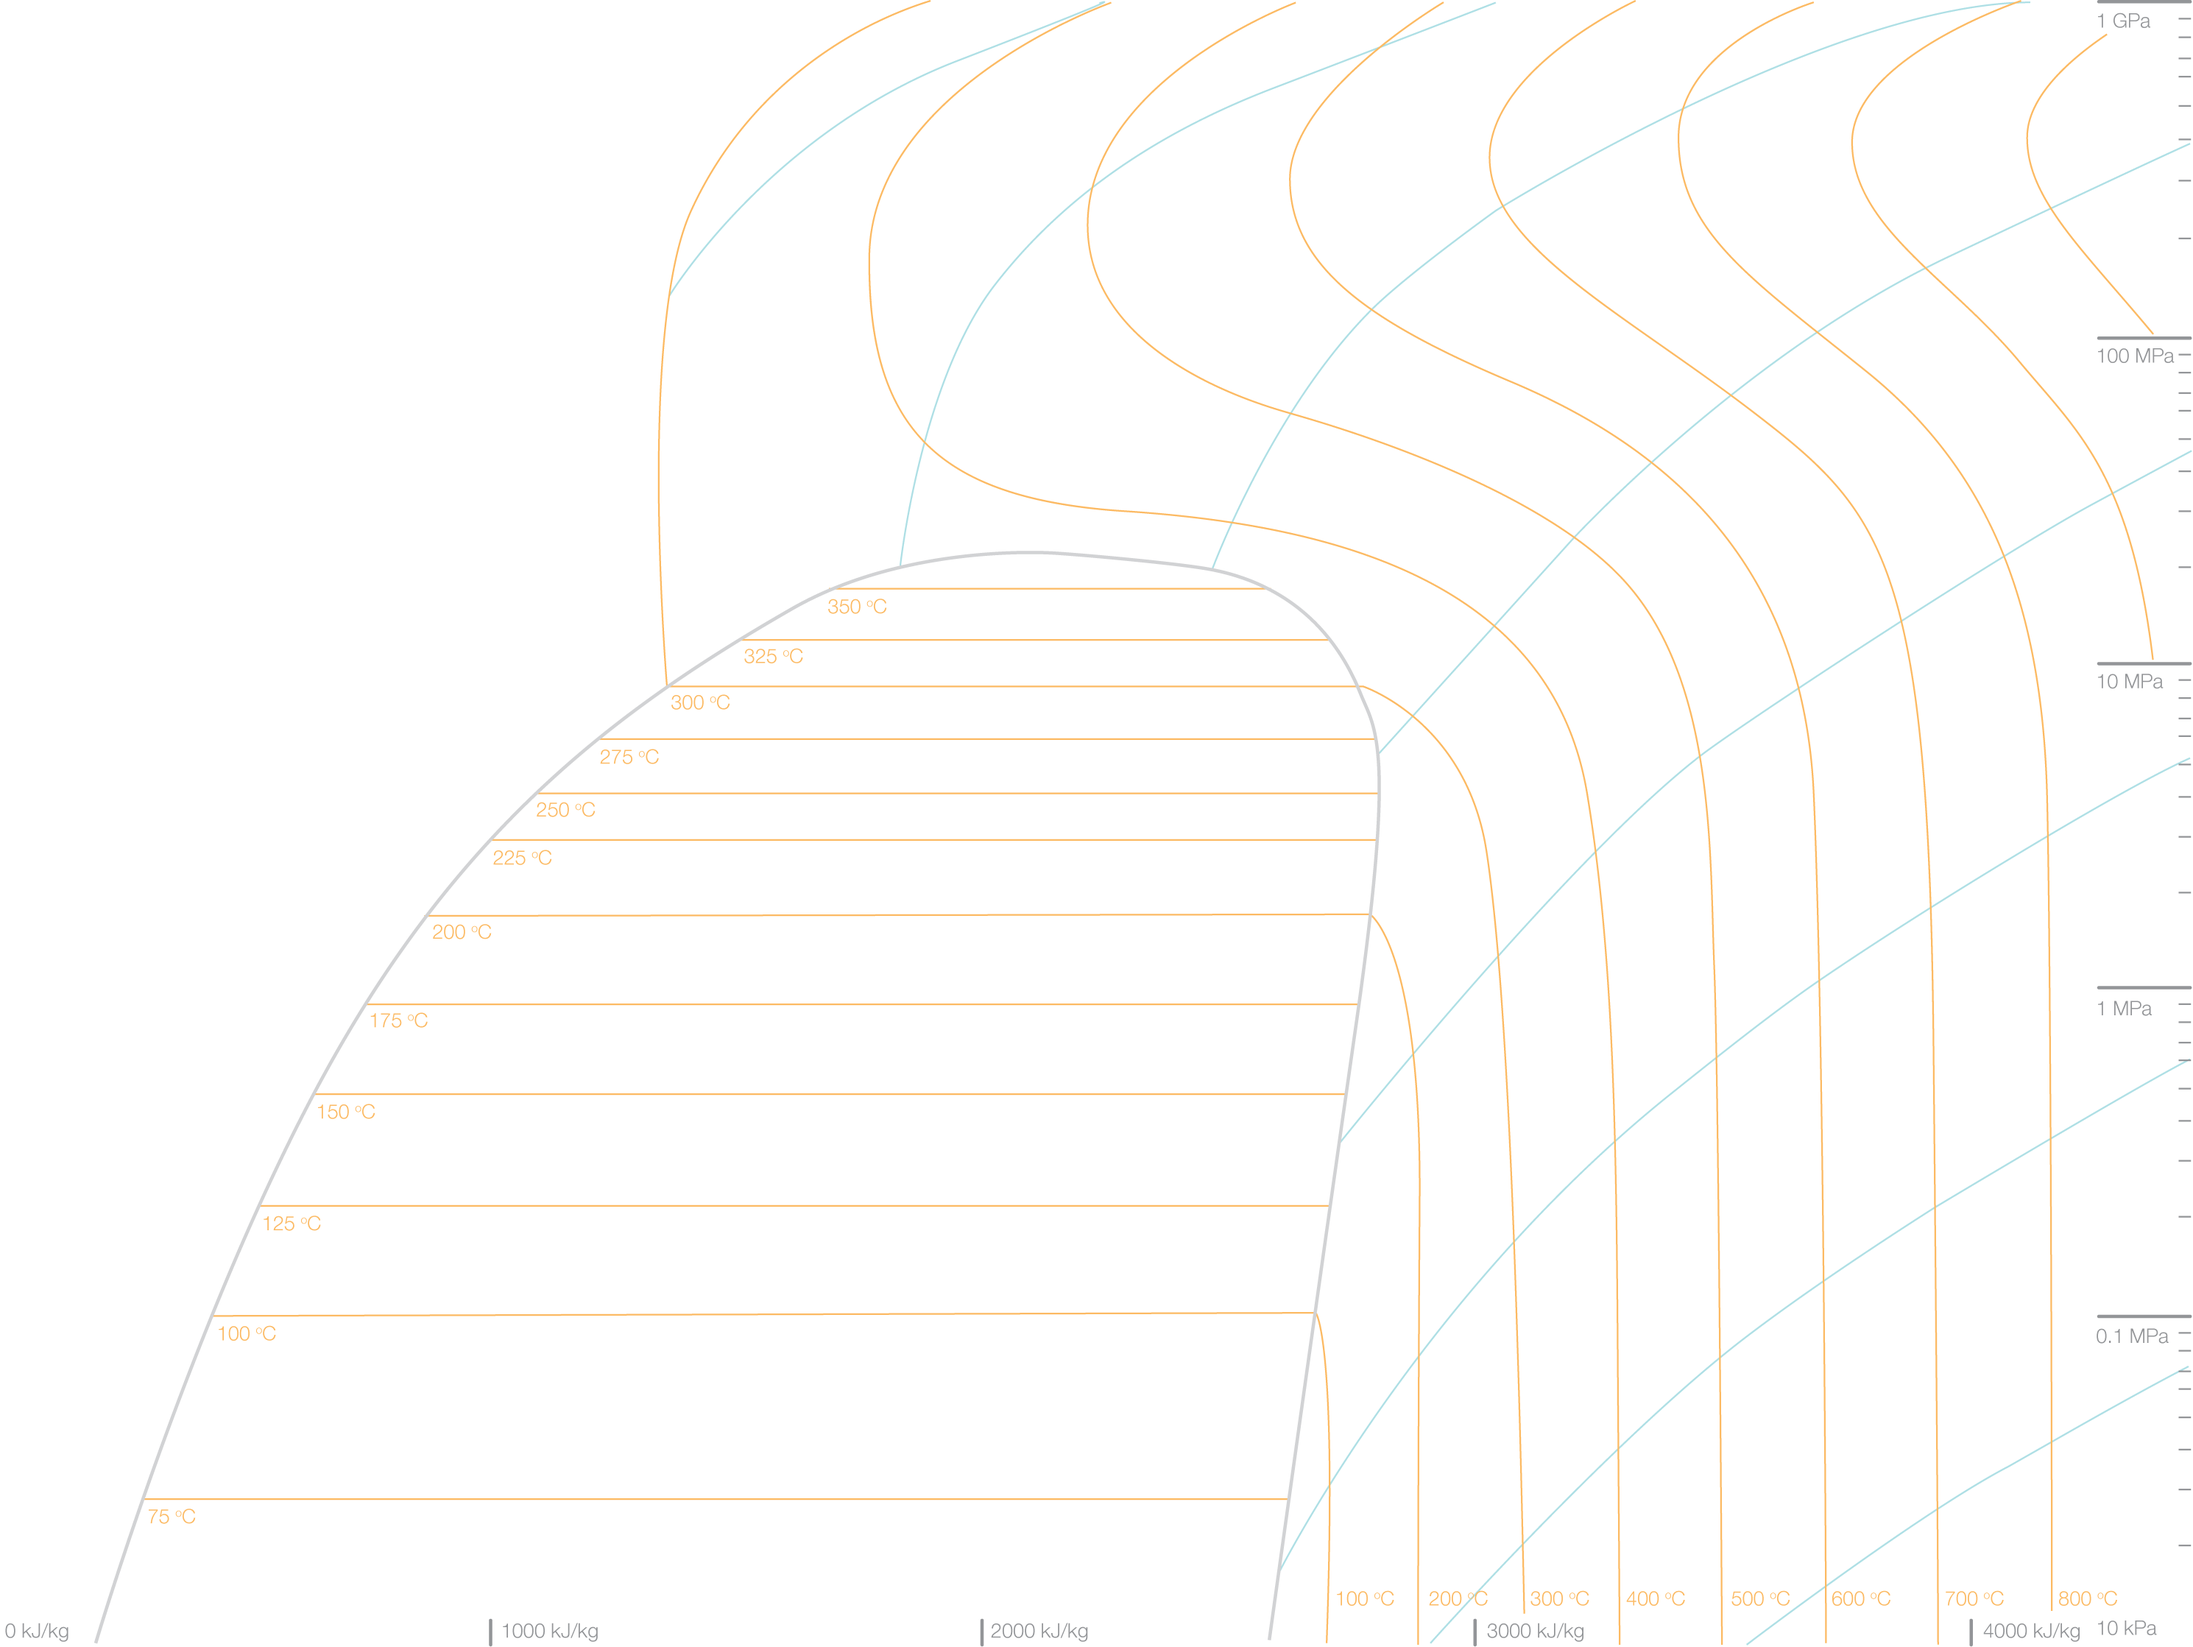
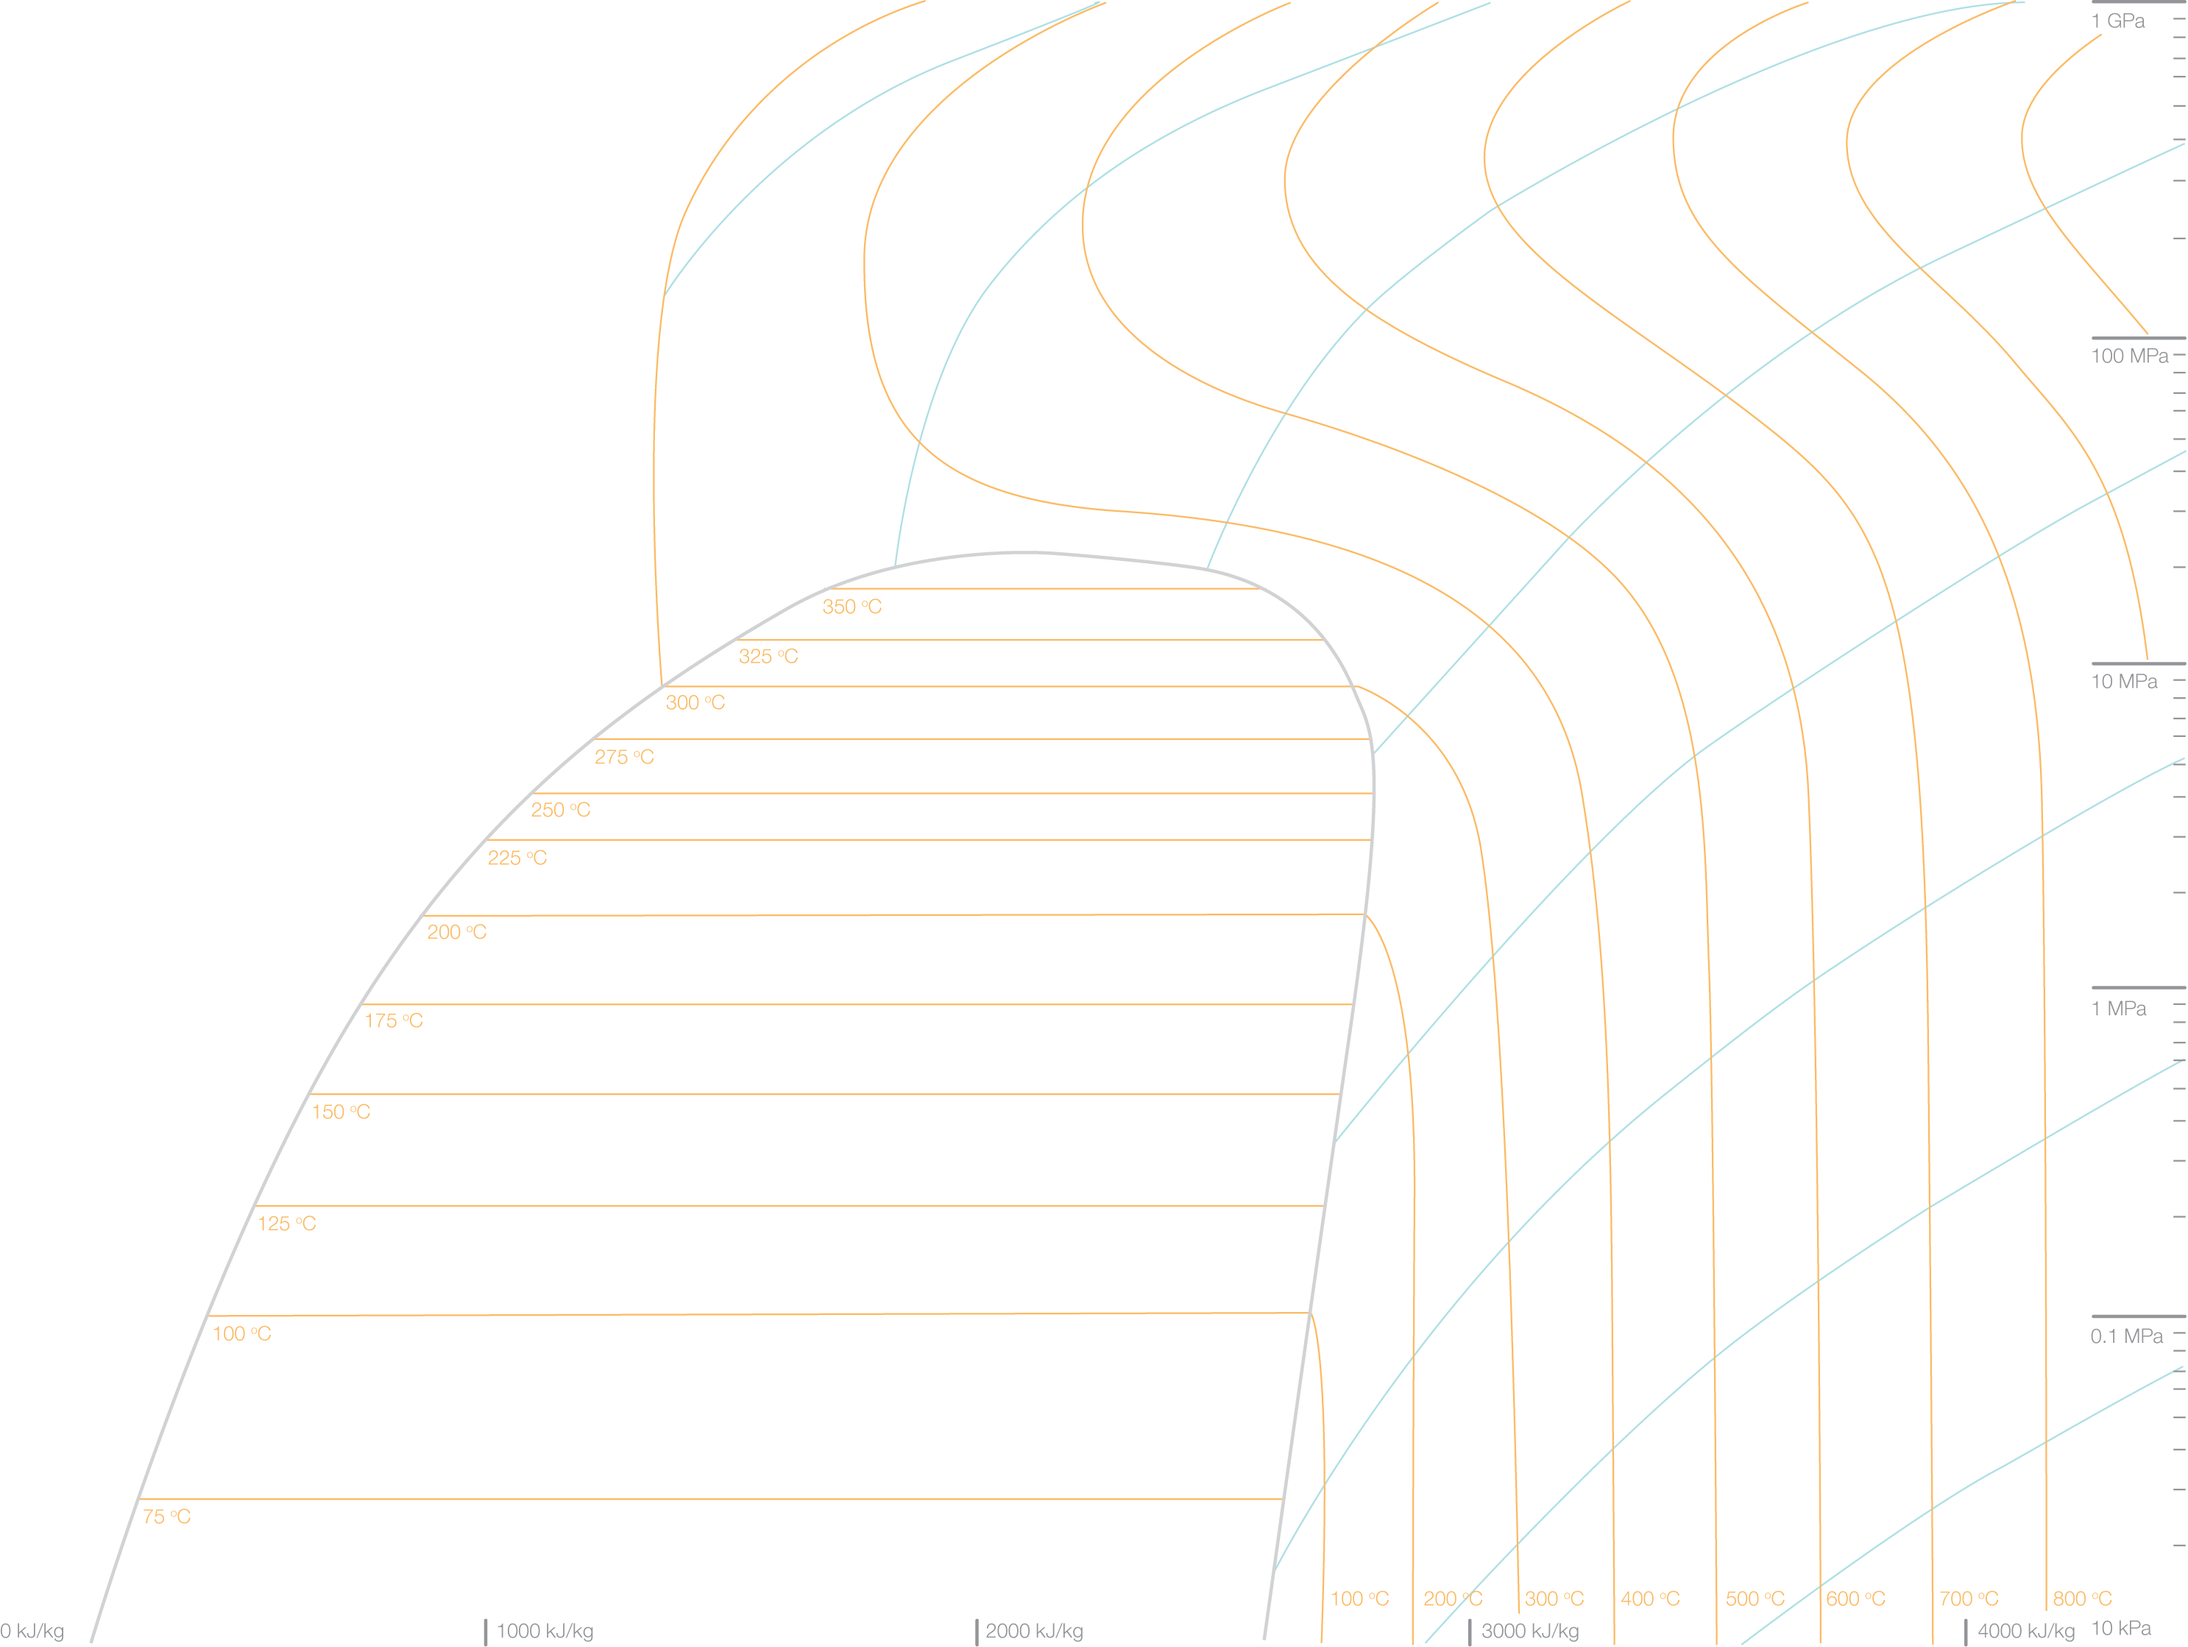
Fixed bug with pointer re-positioning.

diff --git a/Clausius/ViewController.m b/Clausius/ViewController.m
@@ -132,7 +132,7 @@ const static float X_TOTAL_CHANGE = 0.01;
 		make.width.equalTo(@(self.popupView.frame.size.width));
 		make.center.equalTo(self.view);
 	}];
-	
+	/*
 	// Add Adjuster Views
 	NSSet *tags = [self tagsForAdjusterViews];
 	
@@ -153,6 +153,7 @@ const static float X_TOTAL_CHANGE = 0.01;
 			make.height.equalTo([NSNumber numberWithFloat:height - 4.0f]);
 		}];
 	}
+	 */
 }
 
 - (NSSet *)tagsForAdjusterViews
@@ -301,7 +302,7 @@ const static float X_TOTAL_CHANGE = 0.01;
 		NSString *letter1 = [type substringToIndex:1];
 		NSString *letter2 = [type substringFromIndex:1];
 		
-		NSString *displayName = [NSString stringWithFormat:@"%@-%@",letter1,letter2];
+		NSString *displayName = [NSString stringWithFormat:@"%@-%@",letter1.uppercaseString,letter2];
 		self.popupView.text = displayName;
 		
 		[self.chartView resetImage:[UIImage imageNamed:[NSString stringWithFormat:@"Water_%@_chart.png",type]]];
@@ -327,17 +328,20 @@ const static float X_TOTAL_CHANGE = 0.01;
 		
 		[self.popupView showHideAnimated:YES];
 		
-		if ([self.chartView pointIsWithinBoundsForPrimaryAxisValue:currentEntropy
-												secondaryAxisValue:currentTemp]) {
-			if ([self.chartView.chart.valueType isEqualToString:@"ts"]) {
-				[self.chartView moveMarkerToPrimaryAxisValue:currentEntropy
-										  secondaryAxisValue:currentTemp];
-			} else if ([self.chartView.chart.valueType isEqualToString:@"pv"]) {
-				[self.chartView moveMarkerToPrimaryAxisValue:currentSpecVolume
-										  secondaryAxisValue:currentPressure];
-			} else {
+		if ([self.chartView.chart.valueType isEqualToString:@"ph"]) {
+			if ([self.chartView pointIsWithinBoundsForPrimaryAxisValue:currentEnthalpy secondaryAxisValue:currentPressure]) {
 				[self.chartView moveMarkerToPrimaryAxisValue:currentEnthalpy
 										  secondaryAxisValue:currentPressure];
+			}
+		} else if ([self.chartView.chart.valueType isEqualToString:@"pv"]) {
+			if ([self.chartView pointIsWithinBoundsForPrimaryAxisValue:currentSpecVolume secondaryAxisValue:currentPressure]) {
+				[self.chartView moveMarkerToPrimaryAxisValue:currentSpecVolume
+										  secondaryAxisValue:currentPressure];
+			}
+		} else if ([self.chartView.chart.valueType isEqualToString:@"ts"]) {
+			if ([self.chartView pointIsWithinBoundsForPrimaryAxisValue:currentEntropy secondaryAxisValue:currentTemp]) {
+				[self.chartView moveMarkerToPrimaryAxisValue:currentEntropy
+										  secondaryAxisValue:currentTemp];
 			}
 		} else {
 			touchHasRegistered = NO;

diff --git a/Clausius/LocationIndicatorImageView.m b/Clausius/LocationIndicatorImageView.m
@@ -395,13 +395,26 @@ unsigned char *rawData;
 
 #pragma mark - User Movement Methods
 
-- (BOOL)pointIsWithinBoundsForPrimaryAxisValue:(CGFloat)primValue secondaryAxisValue:(CGFloat)secValue
+- (BOOL)pointIsWithinBoundsForPrimaryAxisValue:(CGFloat)primValue
+							secondaryAxisValue:(CGFloat)secValue
 {
-	CGFloat primaryAxisRange = [self.dataSource primaryAxisEndingValue] - [self.dataSource primaryAxisStartingValue];
-	CGFloat secondaryAxisRange = [self.dataSource secondaryAxisEndingValue] - [self.dataSource secondaryAxisStartingValue];
+	CGFloat primaryAxisRange = [self.dataSource primaryAxisEndingValue] - [self.dataSource primaryAxisStartingValue];;
+	CGFloat secondaryAxisRange = [self.dataSource secondaryAxisEndingValue] - [self.dataSource secondaryAxisStartingValue];;
 	
-	CGFloat xValue = ((primValue - [self.dataSource primaryAxisStartingValue])*self.frame.size.width/primaryAxisRange);
-	CGFloat yValue = self.frame.size.height - ((secValue - [self.dataSource secondaryAxisStartingValue])*self.frame.size.height/secondaryAxisRange);
+	CGFloat xValue;
+	CGFloat yValue;
+	
+	if (self.chart.xAxis.scaleType == RUAxisScaleTypeLinear) {
+		xValue = ((primValue - [self.dataSource primaryAxisStartingValue])*self.frame.size.width/primaryAxisRange);
+	} else {
+		xValue = (log10f(primValue) - log10f([self.dataSource primaryAxisStartingValue]))/((log10f([self.dataSource primaryAxisEndingValue]) - log10f([self.dataSource primaryAxisStartingValue]))/self.frame.size.width);
+	}
+	
+	if (self.chart.yAxis.scaleType == RUAxisScaleTypeLinear) {
+		yValue = self.frame.size.height - ((secValue - [self.dataSource secondaryAxisStartingValue])*self.frame.size.height/secondaryAxisRange);
+	} else {
+		yValue = self.frame.size.height - (log10f(secValue) - log10f([self.dataSource secondaryAxisStartingValue]))/((log10f([self.dataSource secondaryAxisEndingValue]) - log10f([self.dataSource secondaryAxisStartingValue]))/self.frame.size.height);
+	}
 	
 	UIColor *color = (UIColor *)[[self getRGBAsFromImage:self.image inImageView:self atX:xValue andY:yValue count:1] lastObject];
 	

diff --git a/Clausius/Model/RUDataSelector.m b/Clausius/Model/RUDataSelector.m
@@ -75,7 +75,7 @@
 + (NSArray *)loadSuperheatedKeyValuesWithFileName:(NSString *)fileName
 {
 	// Get the directory, find the specified file
-	NSString *path = [[NSBundle mainBundle] pathForResource:fileName ofType:nil inDirectory:@"Data Files"];
+	NSString *path = [[NSBundle mainBundle] pathForResource:[fileName substringToIndex:14] ofType:@".csv" inDirectory:@"Data Files"];
 	NSString *string = [NSString stringWithUTF8String:[[NSData dataWithContentsOfFile:path] bytes]];
 	
 	NSScanner *scanner = [[NSScanner alloc] initWithString:string];
@@ -109,7 +109,8 @@
 + (NSArray *)loadSuperheatedValuesWithFileName:(NSString *)fileName
 {
 	// Get the directory, find the specified file
-	NSString *path = [[NSBundle mainBundle] pathForResource:fileName ofType:nil inDirectory:@"Data Files"];
+	NSRange range = [fileName rangeOfString:@".csv"];
+	NSString *path = [[NSBundle mainBundle] pathForResource:[fileName substringToIndex:range.location] ofType:@".csv" inDirectory:@"Data Files"];
 	NSString *string = [NSString stringWithUTF8String:[[NSData dataWithContentsOfFile:path] bytes]];
 	
 	NSScanner *scanner = [[NSScanner alloc] initWithString:string];
@@ -178,7 +179,8 @@
 + (NSArray *)loadSuperheatedRowMappingValuesWithFileName:(NSString *)fileName
 {
 	// Get the directory, find the specified file
-	NSString *path = [[NSBundle mainBundle] pathForResource:fileName ofType:nil inDirectory:@"Data Files"];
+	NSRange range = [fileName rangeOfString:@".csv"];
+	NSString *path = [[NSBundle mainBundle] pathForResource:[fileName substringToIndex:range.location] ofType:@".csv" inDirectory:@"Data Files"];
 	NSString *string = [NSString stringWithUTF8String:[[NSData dataWithContentsOfFile:path] bytes]];
 	
 	NSScanner *scanner = [[NSScanner alloc] initWithString:string];

diff --git a/Clausius/RUAPopupView.m b/Clausius/RUAPopupView.m
@@ -26,7 +26,7 @@
 		
 		self.nameLabel = [[UILabel alloc] initWithFrame:CGRectZero];
 		self.nameLabel.text = text;
-		self.nameLabel.font = [UIFont fontWithName:@"HelveticaNeue-UltraLight" size:120.0];
+		self.nameLabel.font = [UIFont fontWithName:@"HelveticaNeue-UltraLight" size:96.0f];
 		self.nameLabel.textColor = [UIColor whiteColor];
 		
 		CGSize size = [self.nameLabel sizeThatFits:CGSizeMake(CGFLOAT_MAX, CGFLOAT_MAX)];
@@ -37,7 +37,7 @@
 		
 		[self addSubview:self.nameLabel];
 		
-		self.layer.cornerRadius = 3.0f;
+		self.layer.cornerRadius = 15.0f;
 		
 		self.alpha = 0.0;
 		self.backgroundColor = [UIColor colorWithRed:0.5 green:0.5 blue:0.5 alpha:0.5];
